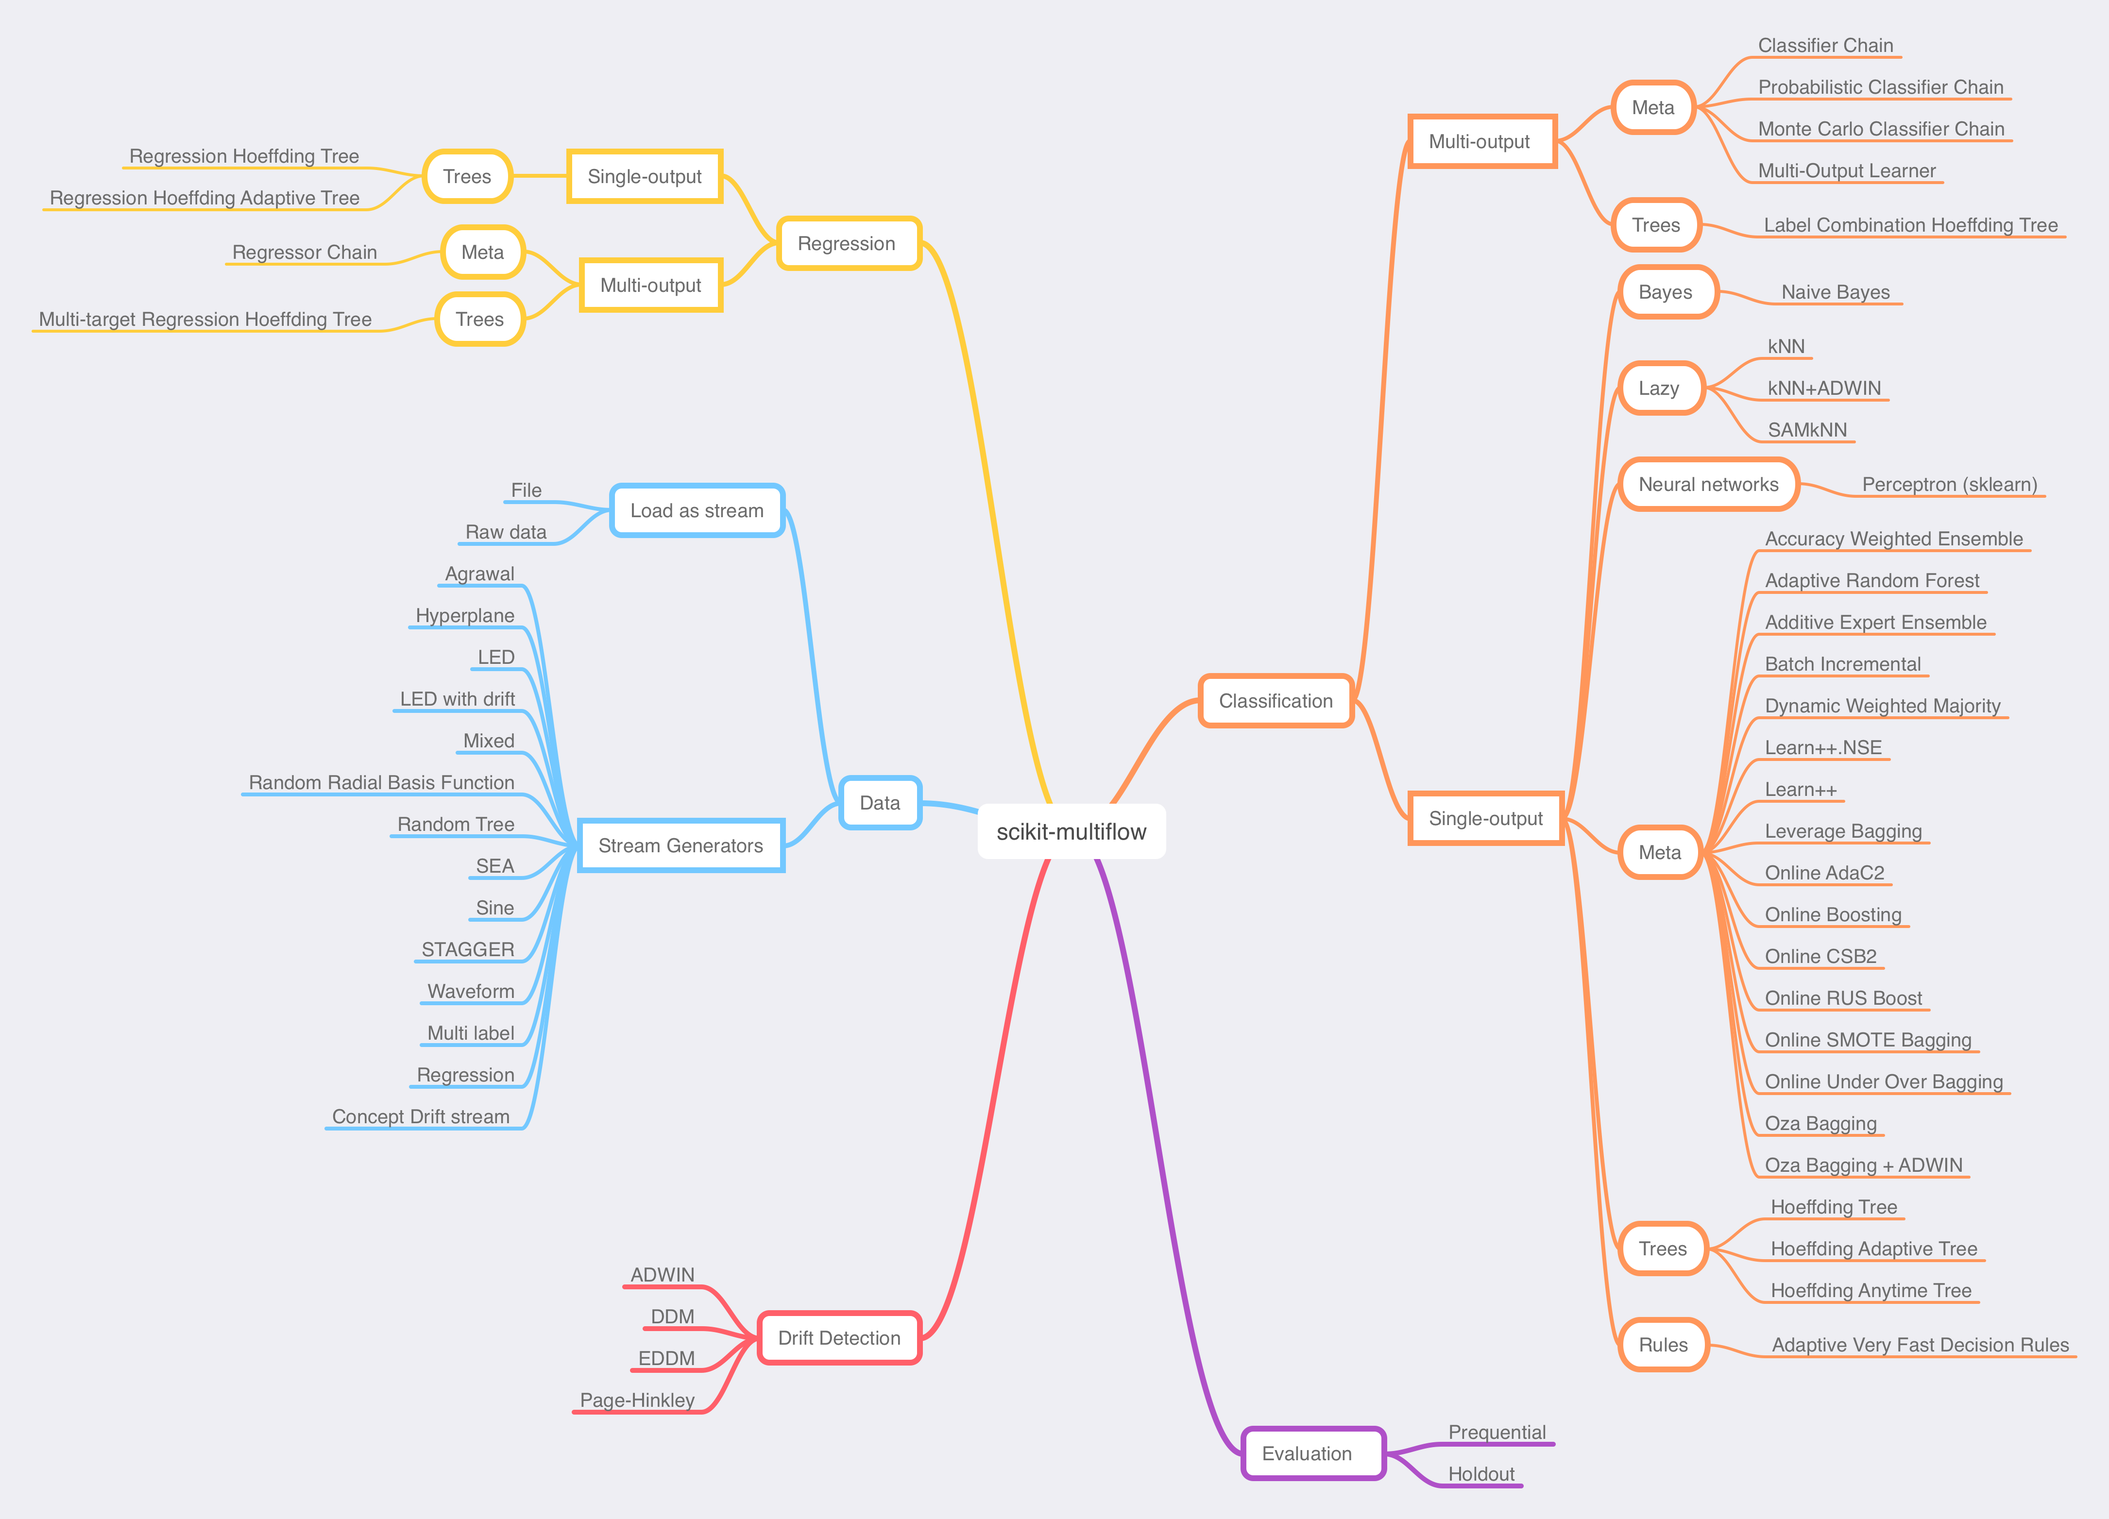
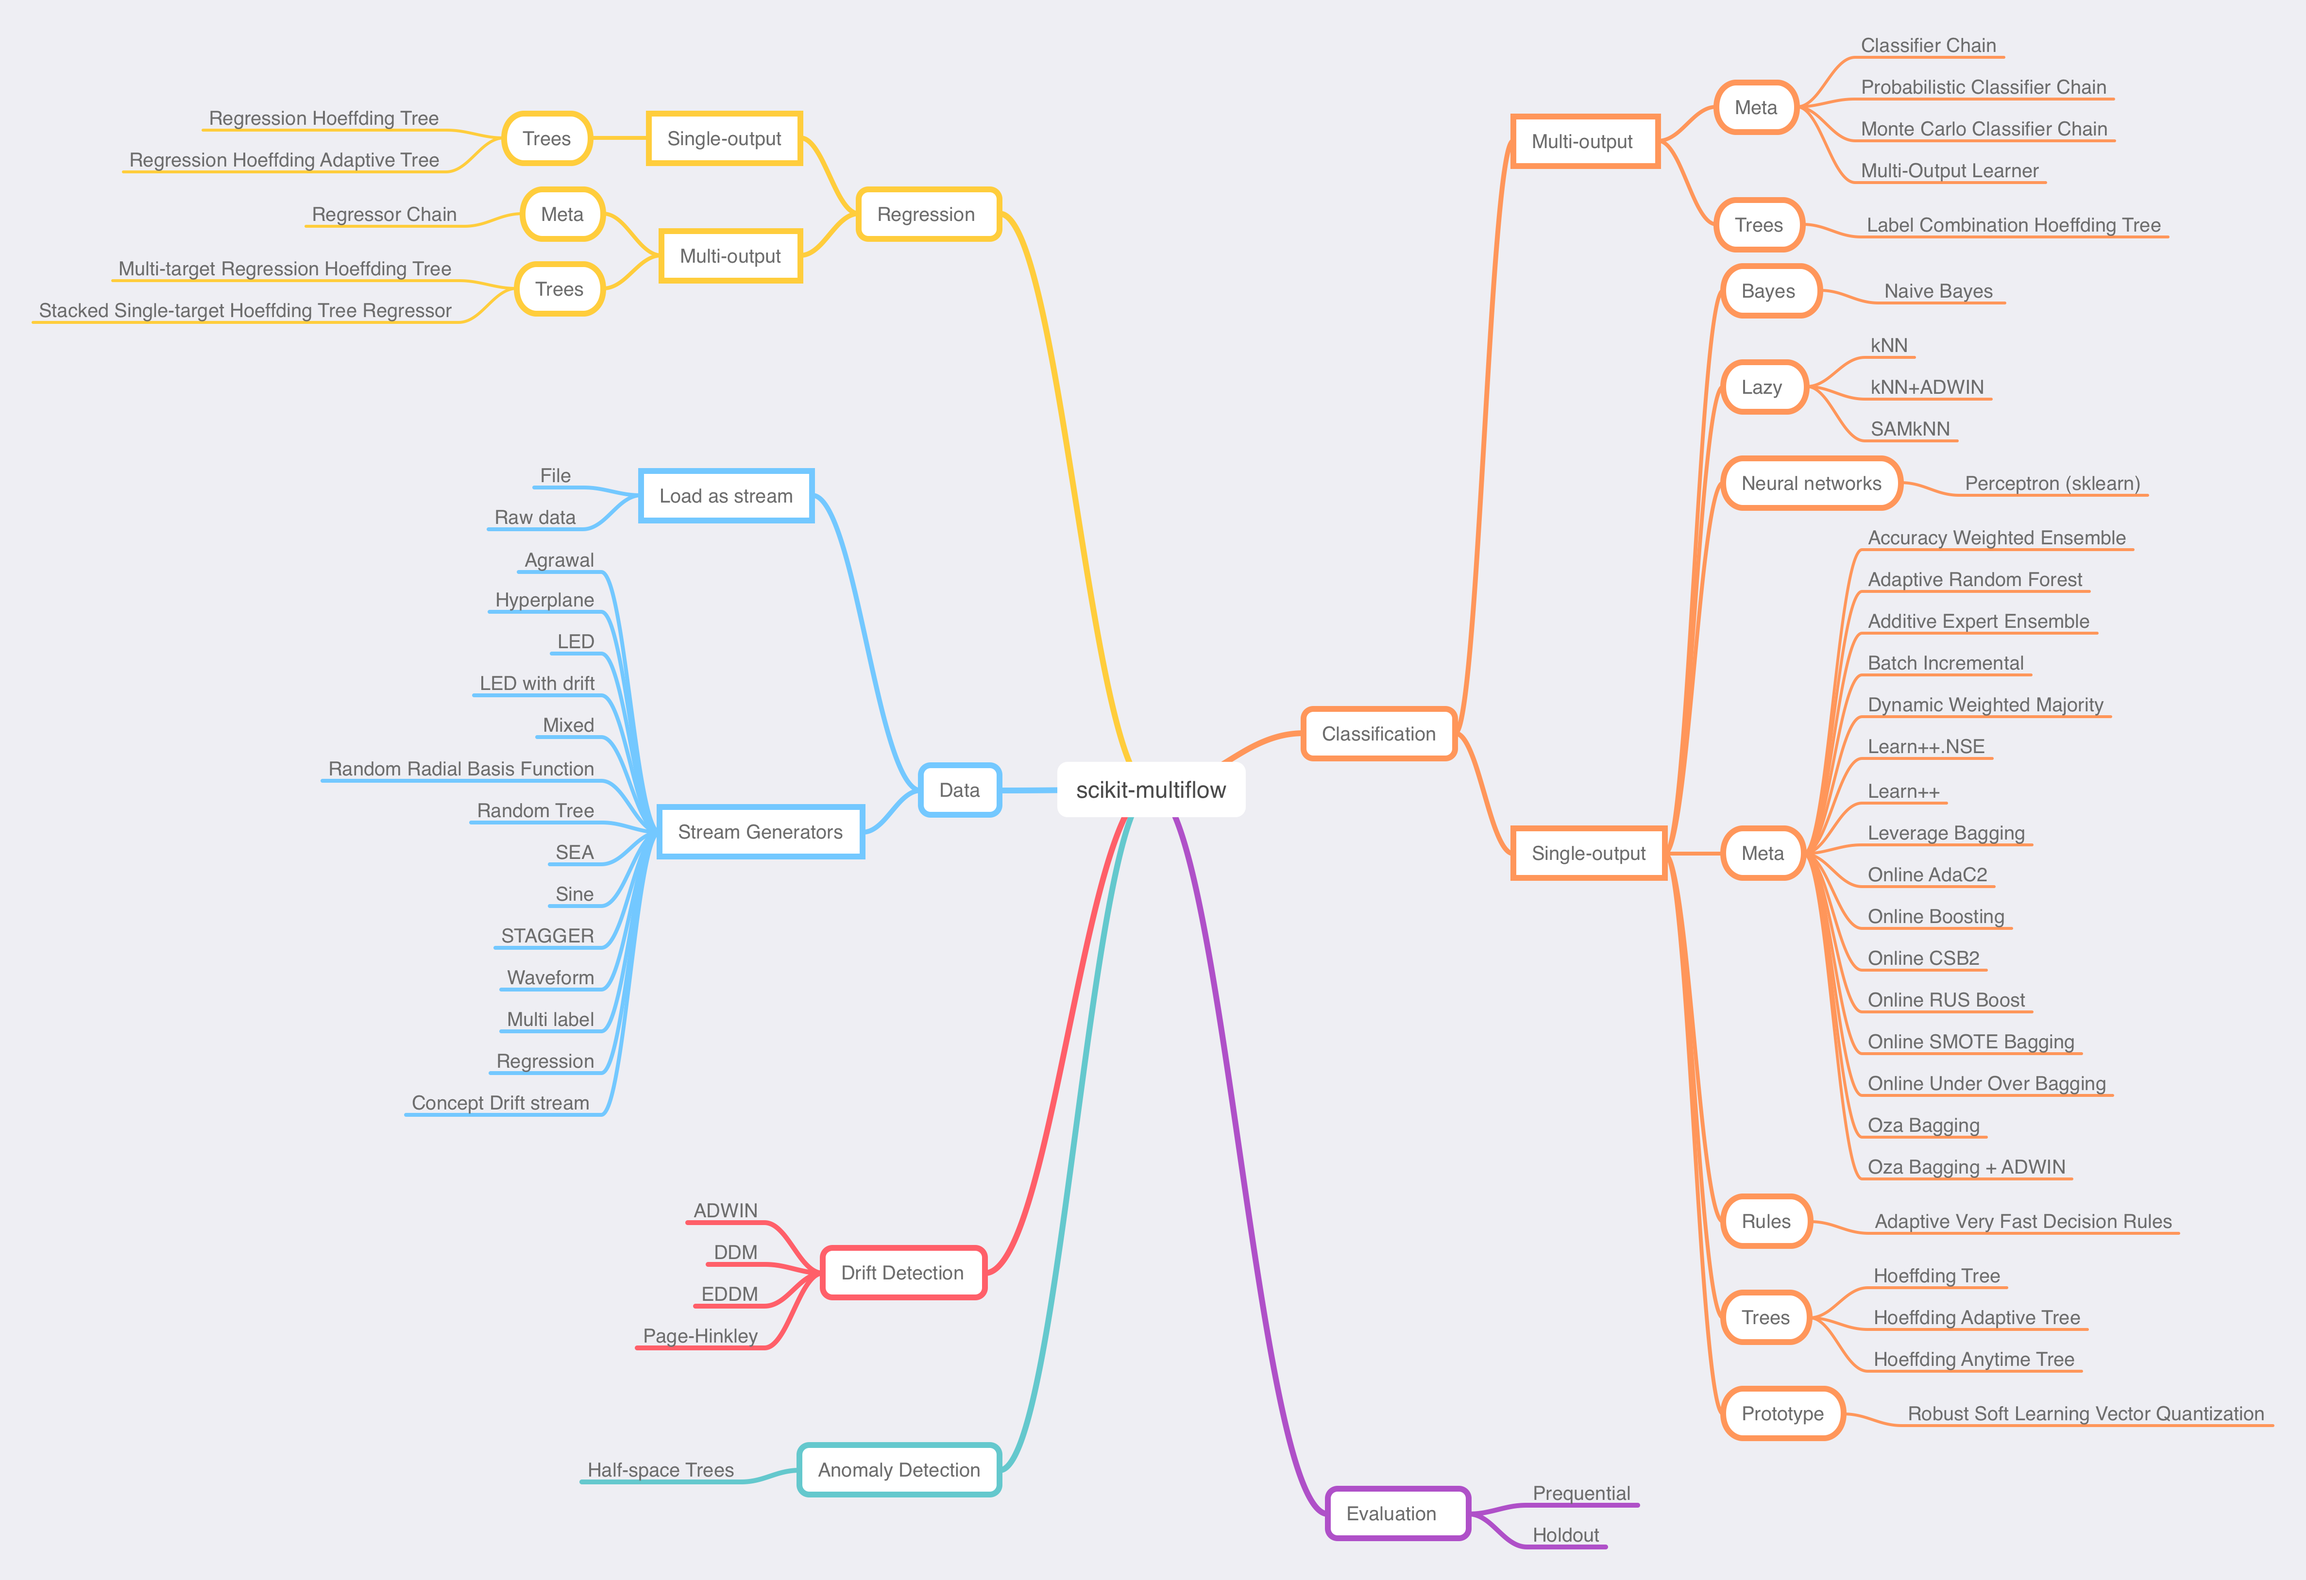
New release v0.4.0 - Log entry for new version - Update package map - Update authors list - Increase version number
Former-commit-id: a038426ea8f229bd339328a763512d19ce9645d2

diff --git a/src/skmultiflow/_version.py b/src/skmultiflow/_version.py
@@ -21,4 +21,4 @@
 # 'X.Y.dev0' is the canonical version of 'X.Y.dev'
 #
 
-__version__ = '0.4.dev0'
+__version__ = '0.4.0'

diff --git a/docs/changelog/v0.3.rst b/docs/changelog/v0.3.rst
@@ -16,8 +16,8 @@ Version 0.3.0
 - |Enhancement| Project documentation overhaul. Improved documentation layout to ease navigation. Documentation for
   multiple methods were revisited and corrections/extensions were included. Multiple typos fixed. A map of methods in
   ``scikit-multiflow`` is added to help users navigate the project.
-- |FIX| Update :class:`lazy.SAMKNN` since changing a dictionary inside a loop now raises a `RunTimeError` (Python 3.7+).
-- |FIX| Fix bug in :class:`meta.LeverageBagging`, use ``set(self.classes)`` instead of ``self.classes``.
+- |Fix| Update :class:`lazy.SAMKNN` since changing a dictionary inside a loop now raises a `RunTimeError` (Python 3.7+).
+- |Fix| Fix bug in :class:`meta.LeverageBagging`, use ``set(self.classes)`` instead of ``self.classes``.
 - |Fix| Fix bug in :class:`meta.OzaBagging`, now re-sampling is correctly calculated for each sample (instance).
   There was a corner case were this value was incorrectly calculated for batches of samples.
 - |API| Rename ``weight`` to ``sample_weight`` in ``partial_fit`` and ``fit`` abstract method

diff --git a/docs/changelog/v0.4.rst b/docs/changelog/v0.4.rst
@@ -1,0 +1,13 @@
+.. currentmodule:: skmultiflow
+.. include:: _labels.rst
+
+Version 0.4.0
+-------------
+
+**Sep 2019**
+
+- |Feature| Robust Soft Learning Vector Quantization classifier :class:`prototype.RobustSoftLearningVectorQuantization`
+- |Feature| Stacked Single-Target Hoeffding Tree regressor :class:`trees.StackedSingleTargetHoeffdingTreeRegressor`
+- |Feature| Half-Space Tress one-class classifier for anomaly detection :class:`anomaly_detection.HalfSpaceTrees`
+- |FIX| Fix bug in :class:`data.HyperplaneGenerator` which resulted in corrupted data when using `batch_size > 1`.
+- |Enhancement| Documentation improvements.

diff --git a/docs/documentation.rst b/docs/documentation.rst
@@ -182,7 +182,7 @@ Prototype based methods
    :nosignatures:
    :toctree: _autosummary
 
-   prototype.RobustSoftLearningVectorQuantization
+       prototype.RobustSoftLearningVectorQuantization
 
 Rules based methods
 -------------------
@@ -219,7 +219,7 @@ Trees based methods
    trees.RegressionHoeffdingTree
    trees.RegressionHAT
    trees.MultiTargetRegressionHoeffdingTree
-   trees.StackedSingleTargetHoeffingTreeRegressor
+   trees.StackedSingleTargetHoeffdingTreeRegressor
 
 
 Drift Detection: :mod:`skmultiflow.drift_detection`

diff --git a/docs/whats_new.rst b/docs/whats_new.rst
@@ -16,6 +16,7 @@ Release notes for current and recent releases are detailed on this page.
    - |API|: you will need to change your code to have the same effect in the
      future; or a feature will be removed in the future.
 
+.. include:: changelog/v0.4.rst
 .. include:: changelog/v0.3.rst
 .. include:: changelog/v0.2.rst
 .. include:: changelog/v0.1.rst

diff --git a/AUTHORS.md b/AUTHORS.md
@@ -20,3 +20,4 @@ The following people have contributed to `scikit-multiflow`'s development and ma
 * Huong LE
 * André CRUZ
 * Moritz HEUSINGER
+* Mert OZER
